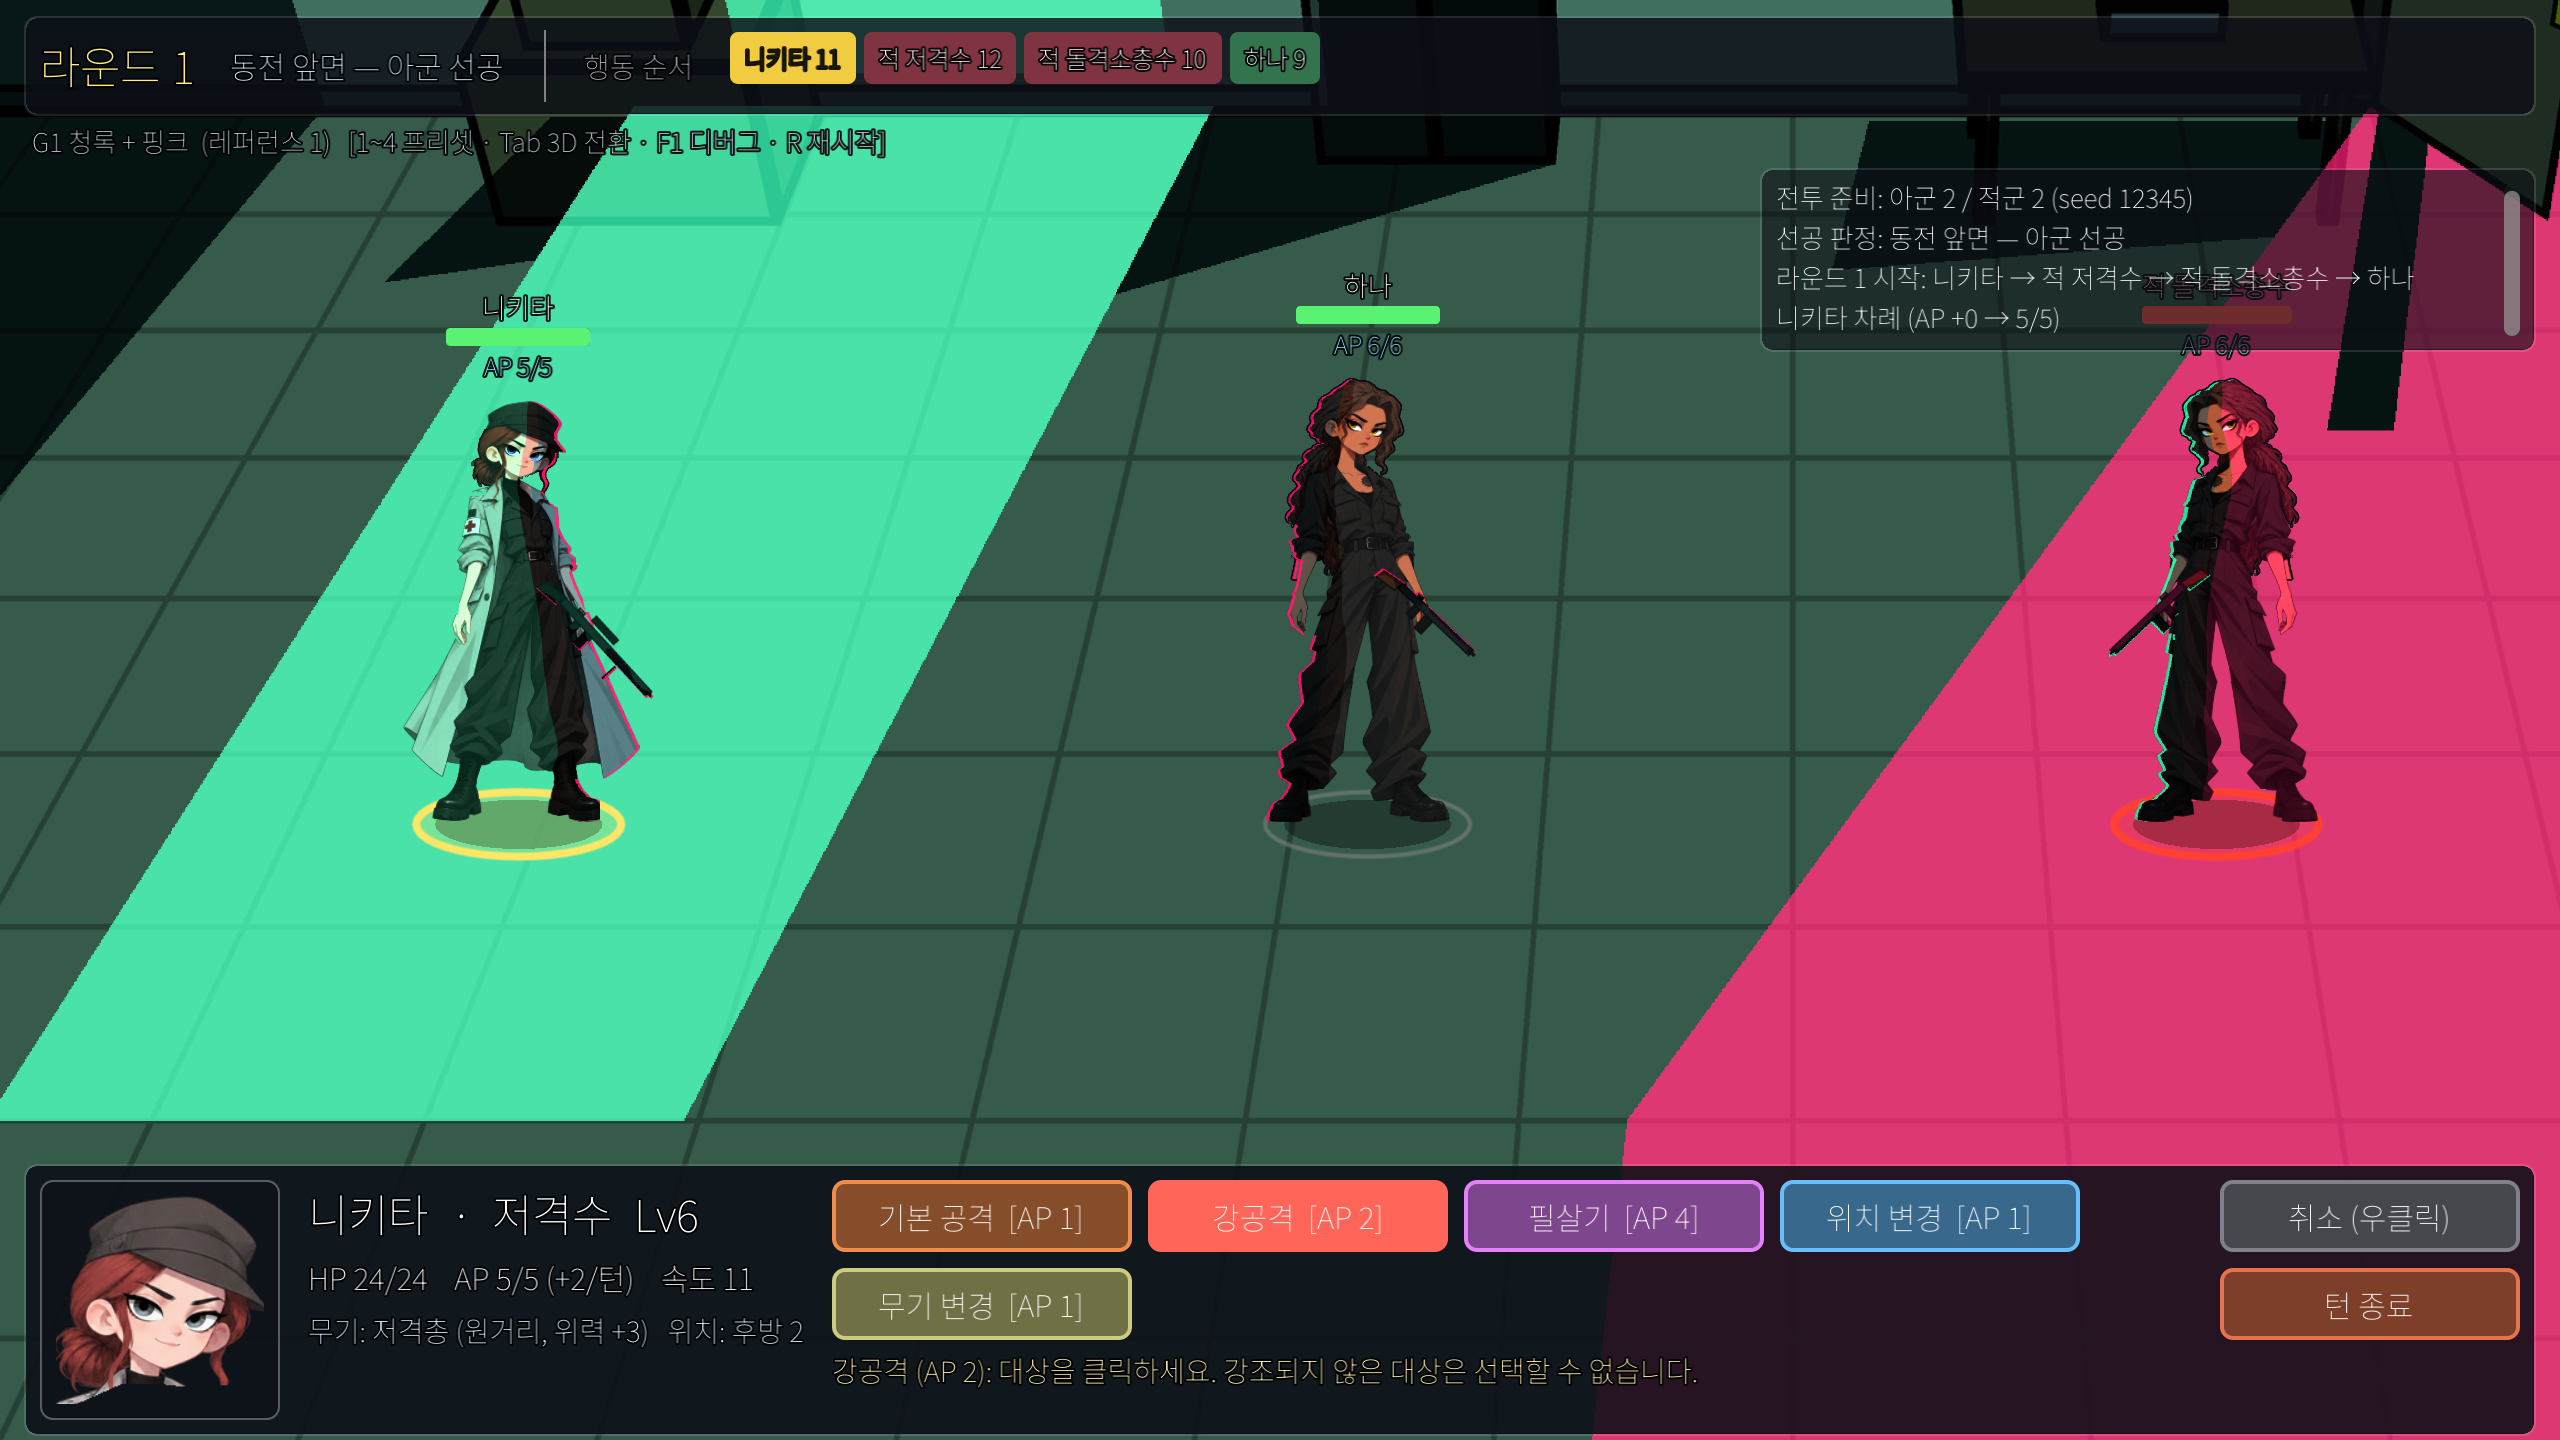
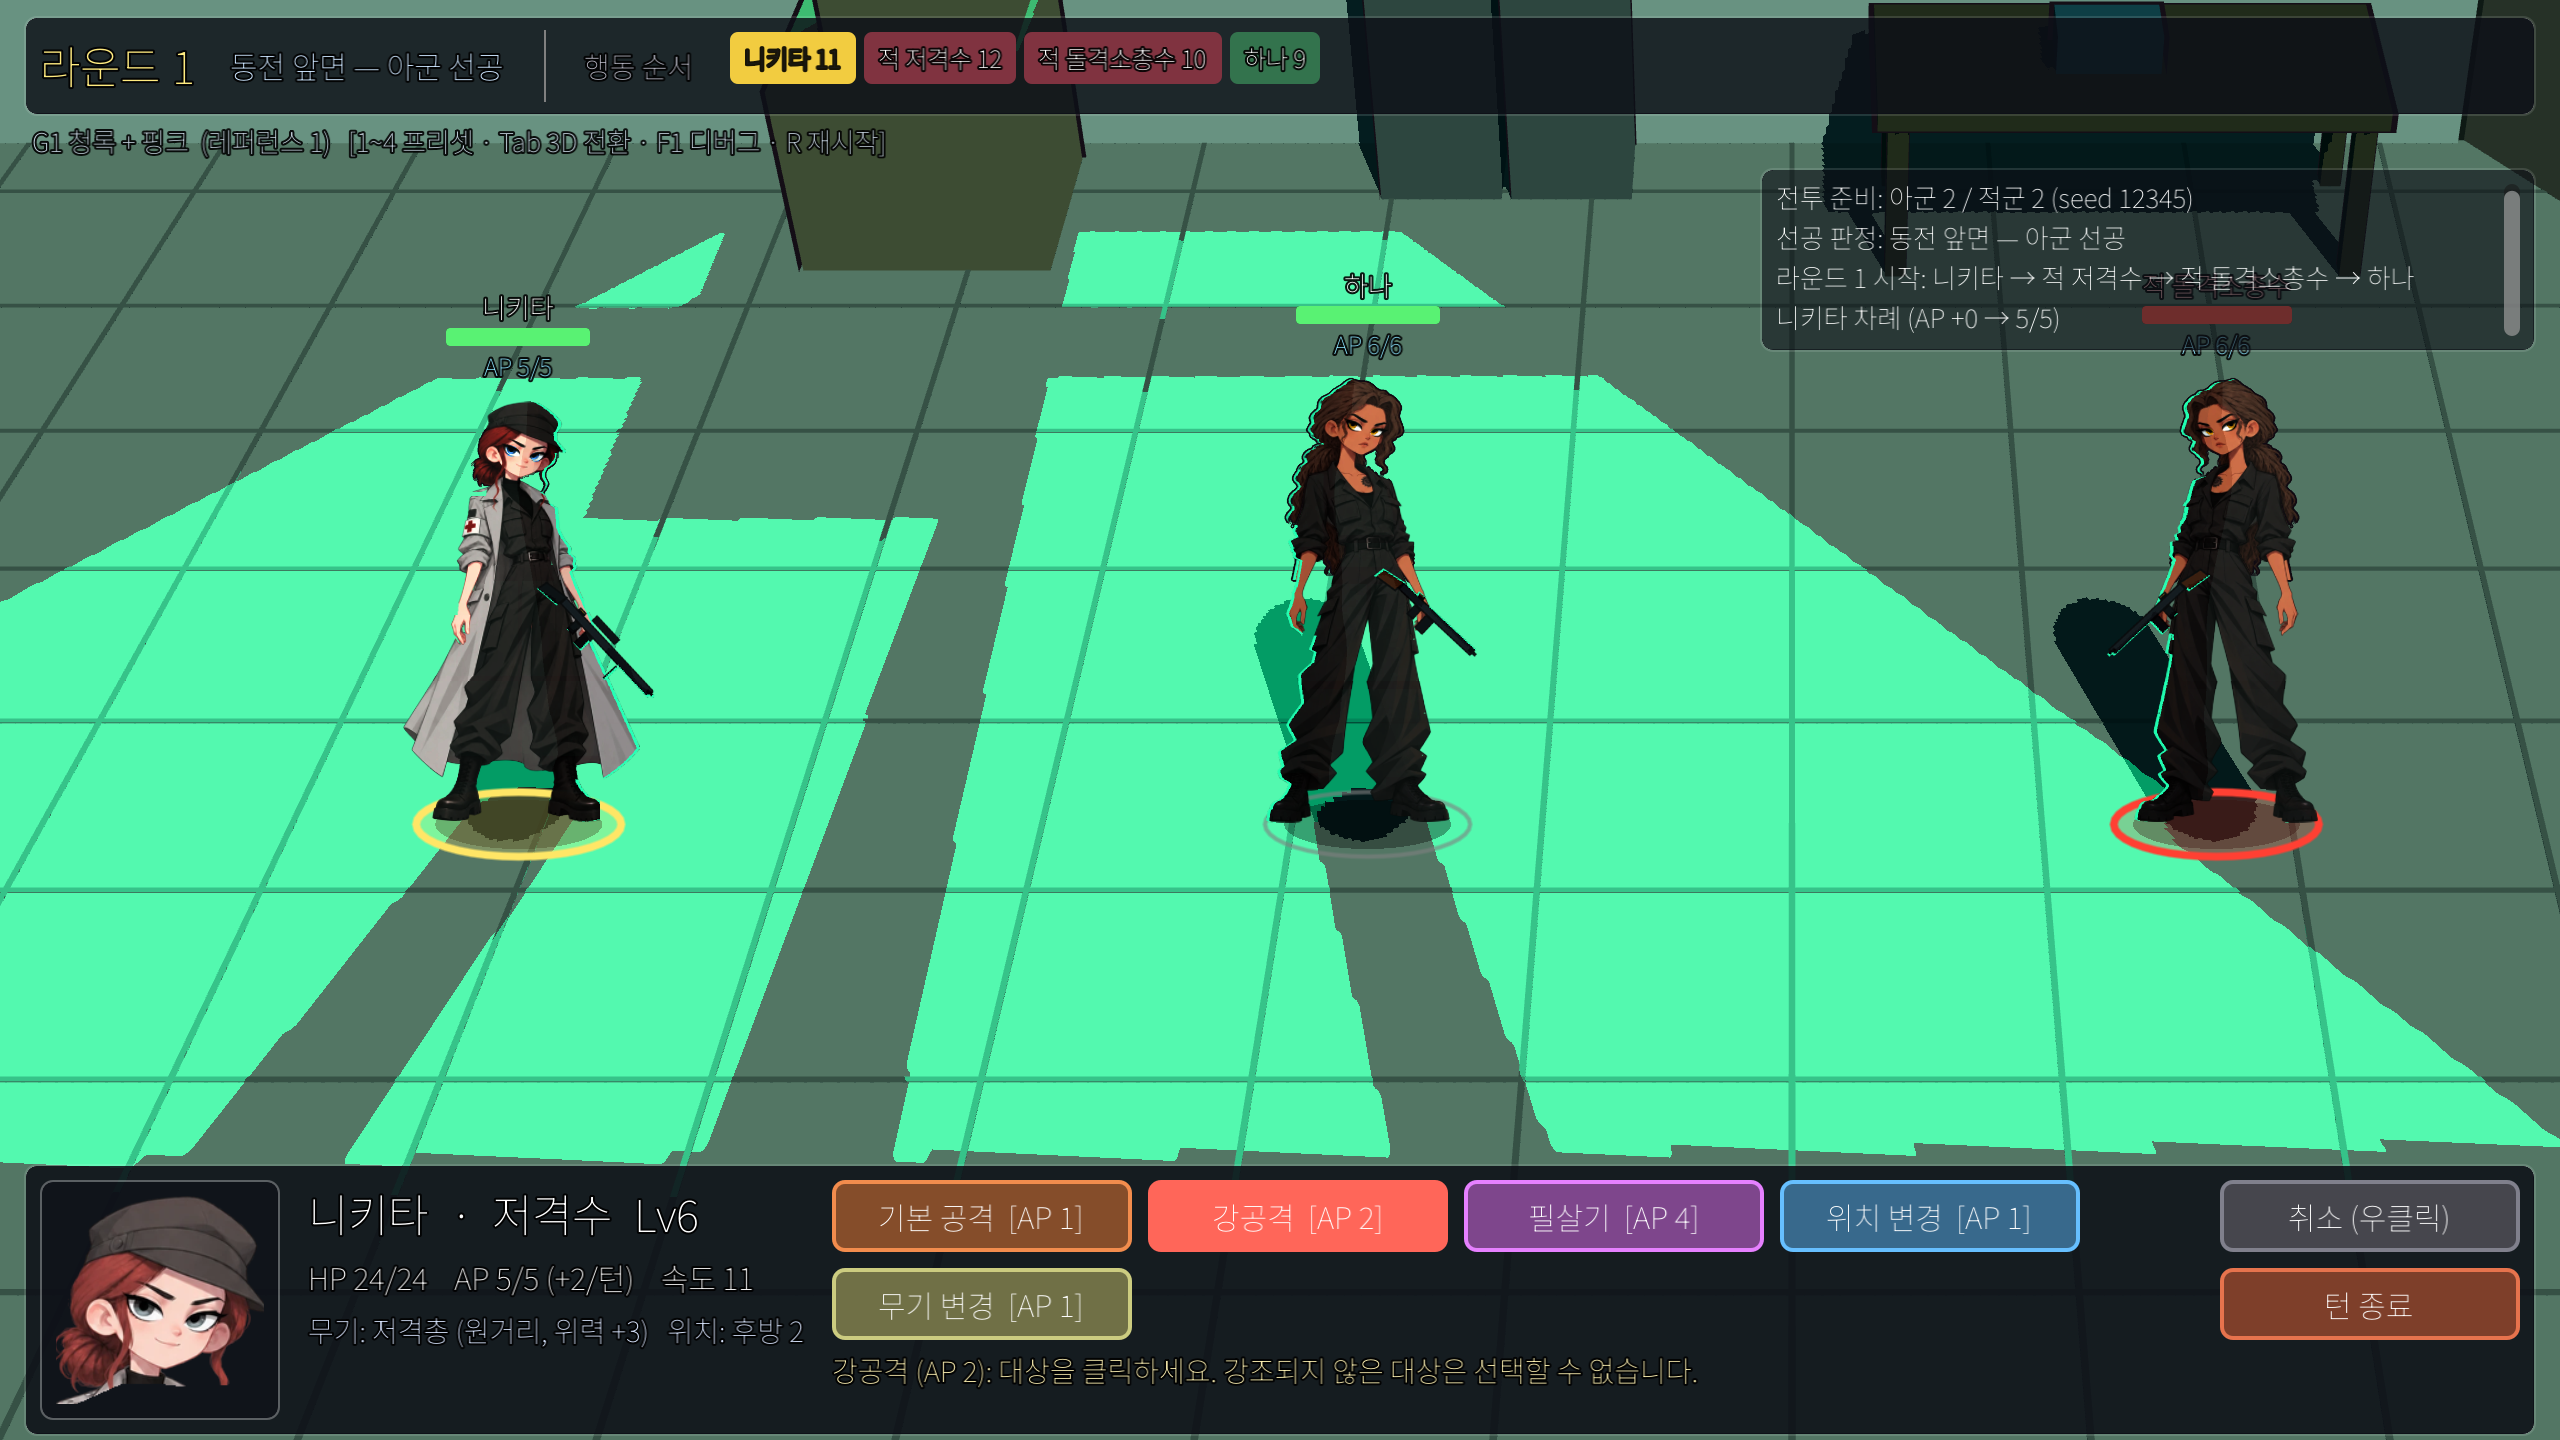
배경 3D + 캐릭터 2D 하이브리드, 실제 광원 기반 캐릭터 라이팅
- BattleView2D: SubViewport 에 BattleView3D 를 배경 모드로 렌더(QHD×1.4, 변경 시에만 재렌더)해 배경 텍스처로 사용
- BattleView3D.configure_as_background: 2D 가상 카메라와 같은 위치·피치·화각 + off-axis 프러스텀으로 투영 일치
  (슬롯 디버그 점이 캐릭터 발과 일치 확인, --bgdebug=1), 바닥 1m 격자 추가
- light_probe: 스폿 원뿔·거리 감쇠·창/문 개구부 통과·반쯤 열린 문짝 가림으로 캐릭터 위치의 실제 빛 계산
- 캐릭터 명암: 빛이 뒤에서 오면 역광(정면 원화색 + 빛 쪽 가장자리만 광원색 림), 앞에서 오면 키 라이트, 실제 역광이 있을 때만 림
  → '민트 창빛 아래 붉은 림' 같은 고정 규칙 제거
- 보이지 않는 그림자 대리 물체로 캐릭터 그림자가 바닥에 드리움, 이동·교환·사망·프리셋 변경 시 갱신
- --bg=2d 로 이전 배경, README·결정 로그·스크린샷 갱신

Claude-Session: https://claude.ai/code/session_014aytw3hj7boqn3SZ5GP5ti

diff --git a/README.md b/README.md
@@ -57,6 +57,15 @@ curl -fsSL https://raw.githubusercontent.com/HomilBBANG/rt_zerosum/main/setup/cl
 `python3 tools/rig_cutter.py <id>` → 임포트 후 `tools/set_mipmaps.py` → 로스터에 `sprite_id: "<id>"`, `height_cm` 으로 등록.
 캐릭터 키는 `rig.json` 의 `figure_px`(원화 정수리~발 픽셀)를 화면 230px = 175cm 기준으로 환산해 2D·3D 모두에 반영됩니다.
 
+## 배경 3D + 캐릭터 2D (하이브리드, 기본)
+2D 전투의 배경은 3D 방(창·문 밖 스폿라이트, 하드 섀도우, 셀 셰이더)을 2D 가상 카메라와 **같은 투영**으로 렌더한 텍스처입니다
+(`BattleView3D.configure_as_background`, QHD×1.4 해상도로 한 번 렌더 후 위치·프리셋 변경 시에만 다시 렌더).
+캐릭터는 2D 리그 그대로이고, 자기 위치에 실제로 닿는 빛(원뿔 범위, 창·문 개구부 통과, 문짝 가림)을 `light_probe` 로 계산해 명암을 정합니다.
+- 빛이 뒤(벽의 창·문)에서 오면 역광: 정면은 원화색, **빛 쪽 가장자리만 그 빛의 색으로 림**.
+- 빛이 앞에서 오면 빛 쪽 몸을 광원색으로 밝히고, 반대편에 실제 역광이 있을 때만 림.
+- 보이지 않는 그림자 대리 물체로 캐릭터 그림자가 바닥에 드리워집니다.
+이전 2D 원화 배경은 `--bg=2d` 로 볼 수 있습니다. 투영 확인용 `--bgdebug=1`(슬롯 위치 빨간 점).
+
 ## 전투 카메라
 전투가 시작되면 먼저 전장 전체 구도를 약 1초 보여준 뒤 1.4배로 줌인하고, 이후 차례가 온 캐릭터를 화면 중심(하단 명령 패널 위쪽)으로
 따라갑니다. 배경 밖은 보이지 않게 제한합니다. 값은 `battle_view_2d.gd` 의 `CAM_*` 상수.

diff --git a/docs/design/00_decision_log_v1_0.md b/docs/design/00_decision_log_v1_0.md
@@ -26,6 +26,8 @@
 - 렌더 해상도 **QHD(2560×1440) 고정**. 리그 원화는 원본의 0.5배(키 약 750px)로 잘라 QHD 표시 키(약 300px)의 2.5배 해상도 확보.
 
 ## 검증 중 (확정 아님)
+- **배경 3D + 캐릭터 2D 하이브리드** (2026-10-25 적용): 배경은 3D 방을 2D 카메라와 같은 투영으로 렌더, 캐릭터 라이팅은 실제 광원 위치 기준
+  (창·문이 뒤에 있어 역광 림 + 바닥 그림자). 캐릭터 2D(리그)는 확정 사항 유지. 이전 2D 배경은 `--bg=2d` 로 비교 가능.
 - Skeleton2D 컷아웃 리그: 제공 캐릭터 1명으로 비용 테스트 중 (`docs/skeleton2d_cost.md`). 애니메이션 방식(프레임/본/혼합)은 미정.
 - 외곽선 렌더 비용: 소프트웨어 렌더 기준 증가 확인, 실기기(맥북) 측정 필요.
 - 눈동자 색은 조명에 묻히지 않게 **일부러 진하게 칠함**: 니키타 파랑(#4f9cff, 원화 회색을 선명하게), 하나 호박색(#ffb020). 로스터 `eye_paint` 로 변경 가능.
